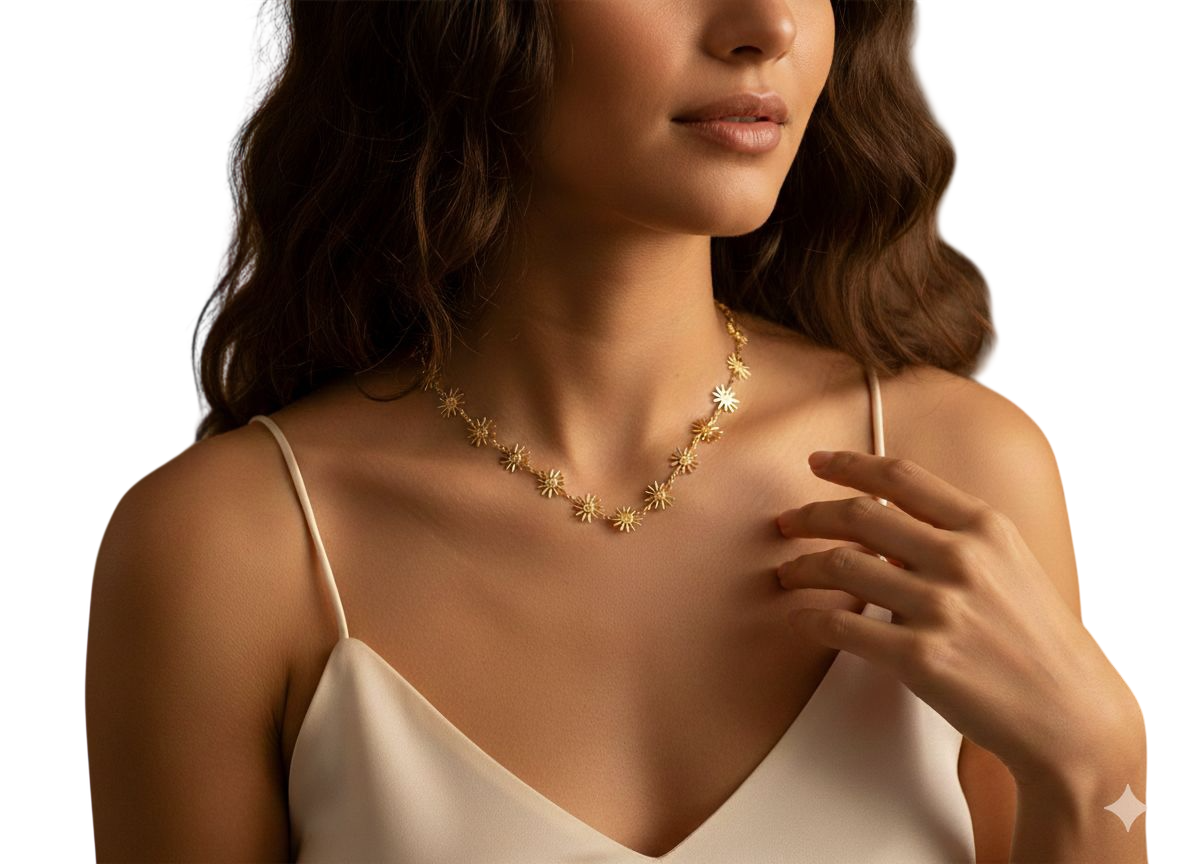
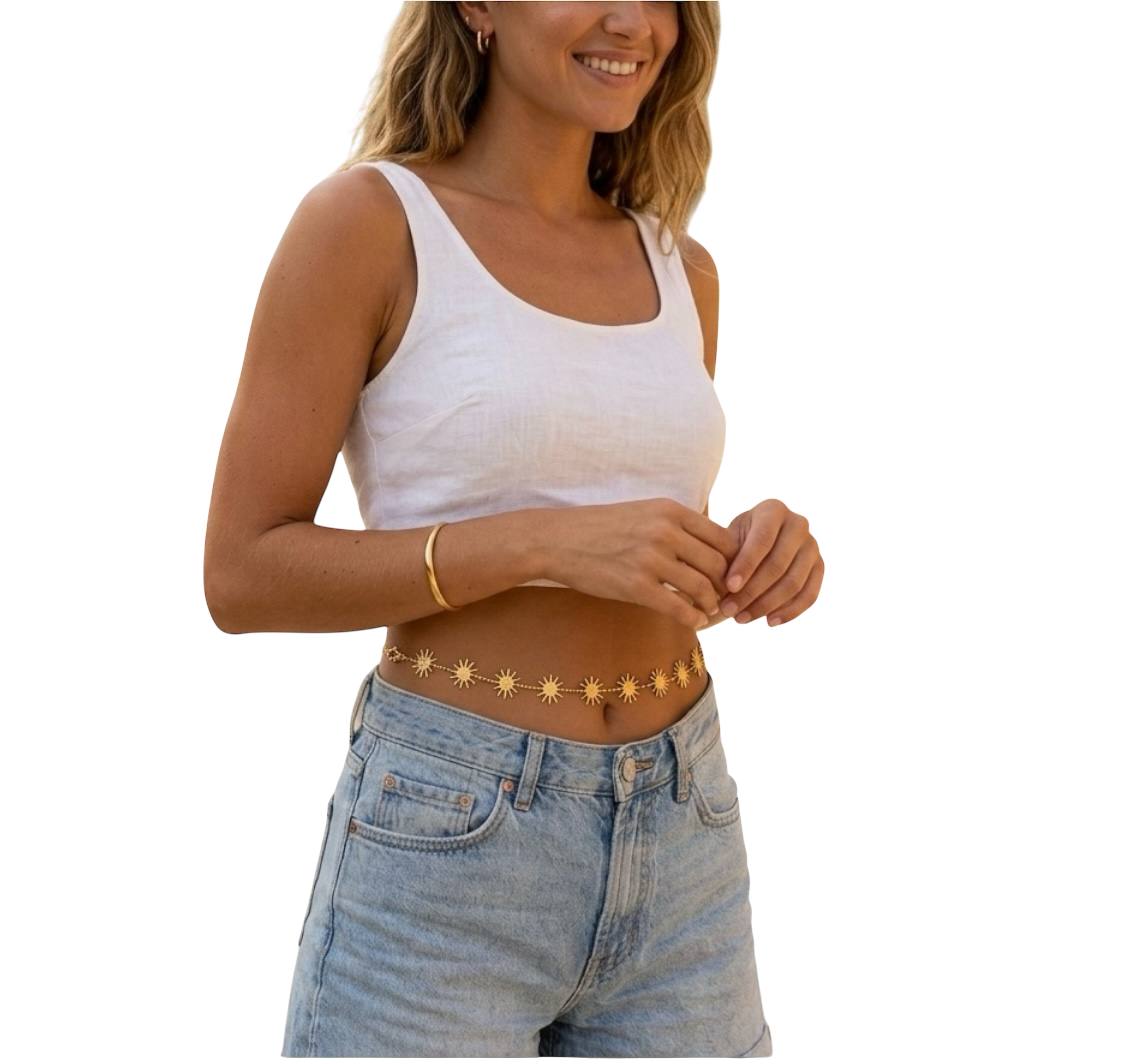
update: reclassify pendant-04 as waist chain and add waist chain section

diff --git a/src/components/sections/waist-chain-section.tsx b/src/components/sections/waist-chain-section.tsx
@@ -1,0 +1,106 @@
+"use client";
+
+import React, { useState } from "react";
+import { motion } from "framer-motion";
+import { Share2, Check } from "lucide-react";
+import Link from "next/link";
+import { products } from "@/data/products";
+
+const WaistChainSection = () => {
+    // Filter products by category "Waist Chain"
+    const waistChains = products.filter(p => p.category === "Waist Chain");
+
+    const [copiedId, setCopiedId] = useState<string | null>(null);
+
+    const handleShare = (e: React.MouseEvent, slug: string, id: string) => {
+        e.preventDefault();
+        e.stopPropagation();
+        const url = `${window.location.origin}/products/${slug}`;
+
+        if (navigator.share) {
+            navigator.share({
+                title: 'Blingish Fine Jewelry',
+                text: 'Check out this exquisite waist chain!',
+                url: url,
+            }).catch(console.error);
+        } else {
+            navigator.clipboard.writeText(url);
+            setCopiedId(id);
+            setTimeout(() => setCopiedId(null), 2000);
+        }
+    };
+
+    if (waistChains.length === 0) return null;
+
+    return (
+        <section id="waist-chains" className="py-20 md:py-40 bg-[var(--bg-color)] overflow-hidden transition-all duration-1000 border-t border-[var(--border-color)]">
+            <div className="container mx-auto px-6 md:px-12">
+                <div className="max-w-4xl mb-20 md:mb-32">
+                    <motion.div
+                        initial={{ opacity: 0, x: -30 }}
+                        whileInView={{ opacity: 1, x: 0 }}
+                        viewport={{ once: true }}
+                        transition={{ duration: 1.2, ease: [0.22, 1, 0.36, 1] }}
+                    >
+                        <span className="text-[10px] md:text-[11px] uppercase tracking-[0.5em] font-bold text-[var(--accent-color)] mb-6 block">
+                            Adorn Your Waist
+                        </span>
+                        <h2 className="text-4xl md:text-8xl font-serif italic tracking-[0.05em] uppercase leading-[0.9] text-[var(--text-color)]">
+                            Waist <br /> <span className="not-italic font-sans font-extralight tracking-tight">Chains</span>
+                        </h2>
+                    </motion.div>
+                </div>
+
+                <div className="grid grid-cols-1 md:grid-cols-2 lg:grid-cols-3 gap-x-12 gap-y-24">
+                    {waistChains.map((product, idx) => (
+                        <motion.div
+                            key={product.id}
+                            initial={{ opacity: 0, y: 50 }}
+                            whileInView={{ opacity: 1, y: 0 }}
+                            viewport={{ once: true, margin: "-100px" }}
+                            transition={{ duration: 1, ease: [0.22, 1, 0.36, 1], delay: idx * 0.1 }}
+                            className="group relative"
+                        >
+                            {/* Share Button */}
+                            <button
+                                onClick={(e) => handleShare(e, product.slug, product.id)}
+                                className="absolute top-4 right-4 z-20 p-3 rounded-full bg-[var(--card-bg)]/80 backdrop-blur-md border border-[var(--border-color)] text-[var(--accent-color)] hover:text-[var(--accent-color)] hover:scale-110 transition-all duration-300 opacity-0 group-hover:opacity-100 shadow-sm"
+                            >
+                                {copiedId === product.id ? <Check size={14} /> : <Share2 size={14} />}
+                            </button>
+
+                            <Link href={`/products/${product.slug}`} className="block">
+                                <div className="relative aspect-[16/9] md:aspect-[3/2] bg-white rounded-[1.5rem] md:rounded-[3rem] overflow-hidden mb-6 md:mb-10 shadow-[0_30px_60px_rgba(0,0,0,0.02)] transition-all duration-1000 group-hover:shadow-[0_50px_100px_rgba(0,0,0,0.06)] border border-[var(--border-color)]">
+                                    <img
+                                        src={product.images[0]}
+                                        alt={product.name}
+                                        className="w-full h-full object-contain p-4 md:p-8 transition-all duration-[1.5s] group-hover:scale-105"
+                                    />
+                                    <div className="absolute inset-0 bg-black/5 opacity-0 group-hover:opacity-100 transition-opacity duration-700" />
+                                </div>
+                            </Link>
+
+                            <div className="text-center px-4">
+                                <span className="text-[8px] md:text-[9px] tracking-[0.3em] uppercase opacity-40 font-bold mb-3 block text-[var(--accent-color)]">{product.category}</span>
+                                <Link href={`/products/${product.slug}`}>
+                                    <h3 className="text-sm md:text-base uppercase tracking-[0.2em] font-medium leading-relaxed mb-3 group-hover:text-[var(--accent-color)] transition-colors duration-500 text-[var(--text-color)]">
+                                        {product.name}
+                                    </h3>
+                                </Link>
+                                <div className="flex items-center justify-center gap-4">
+                                    <span className="w-8 h-[1px] bg-[var(--border-color)]" />
+                                    <span className="text-lg md:text-xl font-light tracking-widest text-[var(--text-color)]">
+                                        ₹{product.price.toLocaleString('en-IN')}
+                                    </span>
+                                    <span className="w-8 h-[1px] bg-[var(--border-color)]" />
+                                </div>
+                            </div>
+                        </motion.div>
+                    ))}
+                </div>
+            </div>
+        </section>
+    );
+};
+
+export default WaistChainSection;

diff --git a/src/data/products.ts b/src/data/products.ts
@@ -1212,13 +1212,13 @@ export const products: Product[] = [
         }
     },
     {
-        id: "pendant-04",
-        slug: "pen4-pendant",
-        name: "Imperial Grace Pendant",
+        id: "waist-chain-01",
+        slug: "imperial-grace-waist-chain",
+        name: "Imperial Grace Waist Chain",
         price: 999,
-        category: "Pendant/Necklace",
+        category: "Waist Chain",
         images: ["/images/pendant/pen4.png", "/images/pendant/pen4.1.png"],
-        description: "A centerpiece that embodies grace and strength through its interlocking solar patterns.",
+        description: "A centerpiece that embodies grace and strength through its interlocking solar patterns, designed to elegantly drape around the waist.",
         provenance: "Part of our Heritage collection, celebrating artisanal legacy.",
         specs: {
             metal: "Gold Toned Plating",

diff --git a/src/app/page.tsx b/src/app/page.tsx
@@ -5,6 +5,7 @@ import GridFeatures from "@/components/sections/grid-features";
 import Cabinet from "@/components/sections/cabinet";
 import Story from "@/components/sections/story";
 import TraditionalSection from "@/components/sections/traditional-section";
+import WaistChainSection from "@/components/sections/waist-chain-section";
 import Reviews from "@/components/sections/reviews";
 import FAQ from "@/components/sections/faq";
 import CartSidebar from "@/components/cart-sidebar";
@@ -23,6 +24,7 @@ export default function Home() {
       <Cabinet />
       <Story />
       <TraditionalSection />
+      <WaistChainSection />
       <Reviews />
       <FAQ />
 
